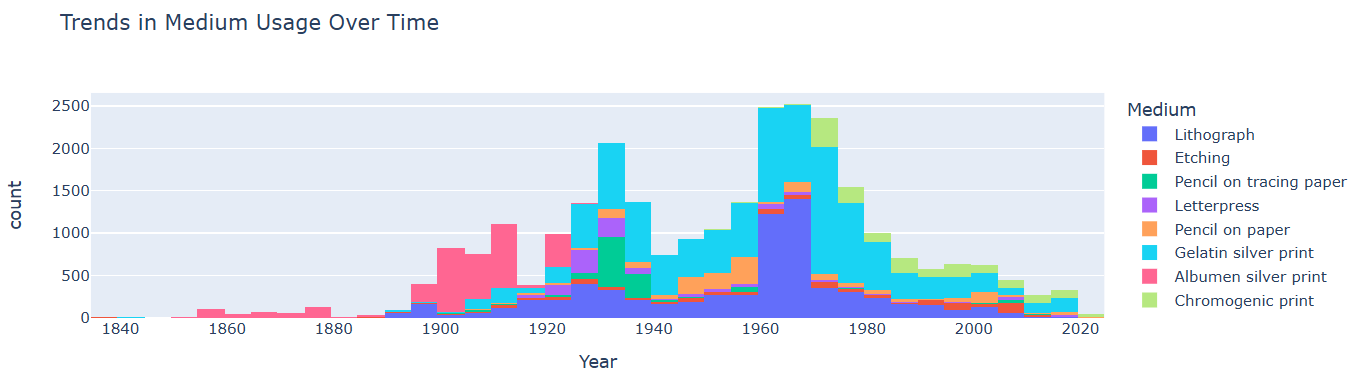
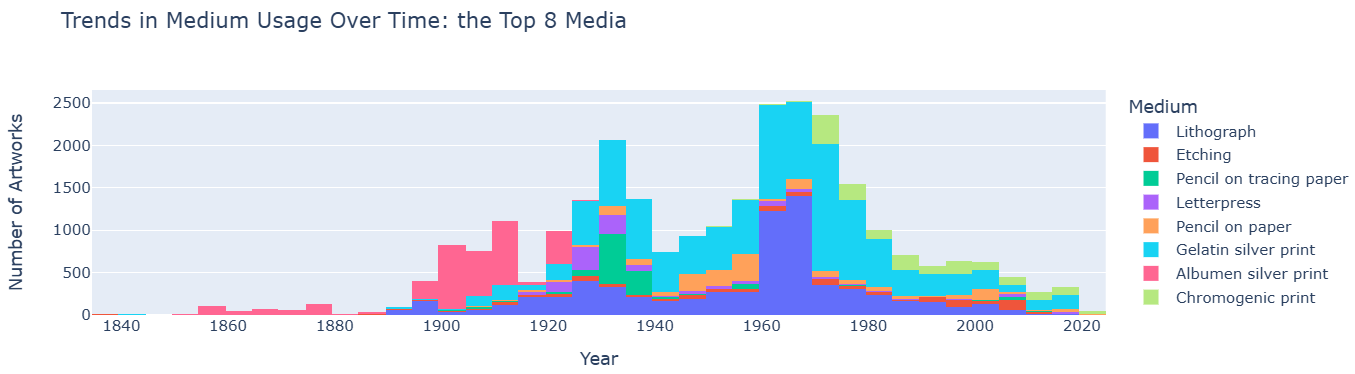
correct visualization in episode 1 and add dictionary to episode 2

diff --git a/episodes/01_analyze_tabular_data.md b/episodes/01_analyze_tabular_data.md
@@ -731,14 +731,19 @@ To keep the graph clear and easy to read, we'll focus only on the top eight most
 artistic media found in `moma_df`.
 
 ``` Python
-moma_df['Date'] = pd.to_numeric(moma_df['Date'], errors='coerce')
-top_media = moma_df['Medium'].value_counts().nlargest(8).index
-medium_df = moma_df[moma_df['Medium'].isin(top_media)]
+df = moma_df.copy()
+df['Date'] = pd.to_numeric(df['Date'], errors='coerce')
+
+top_media = df['Medium'].value_counts().nlargest(8).index
+medium_df = df[df['Medium'].isin(top_media)]
 
 fig = px.histogram(medium_df, x='Date', color='Medium',
                    nbins=50,
-                   title='Trends in Medium Usage Over Time',
-                   labels={'Date': 'Year'})
+                   title='Trends in Medium Usage Over Time: the Top 8 Media')
+
+fig.update_xaxes(title_text='Year')
+fig.update_yaxes(title_text='Number of Artworks')
+
 fig.show()
 ``` 
 
@@ -764,7 +769,28 @@ out the documentation of `plotly.express.histogram`
 Here's a line-by-line explanation of the above code: 
 
 ```
-moma_df['Date'] = pd.to_numeric(moma_df['Date'], errors='coerce')
+df = moma_df.copy()
+```
+
+- Creates a copy of the DataFrame `moma_df` and assigns it to `df`. This is often done to 
+preserve the original DataFrame in case you want to modify it without affecting the source.
+Here, because we are going to manipulate some values in `moma_df`, changing their data types and 
+removing rows that contain empty values, we create a copy of it to keep the original DataFrame 
+unchanged. 
+
+
+```
+df['Date'] = pd.to_numeric(df['Date'], errors='coerce')
+```
+
+- The dates in the "Date" column are objects. This line of code converts the values in the 
+'Date' column to numeric format. 
+- Any values that can't be converted (like strings or invalid dates) are set to NaN 
+(missing values) by `errors='coerce'`.
+
+
+```
+df['Date'] = pd.to_numeric(moma_df['Date'], errors='coerce')
 ```
 - If you remember, the dates in the 'Date' column were objects as `moma_df.info()` showed. 
 This line of code converts the values in the 'Date' column to numeric format.
@@ -773,9 +799,9 @@ This line of code converts the values in the 'Date' column to numeric format.
 
 
 ```
-top_media = moma_df['Medium'].value_counts().nlargest(8).index
+top_media = df['Medium'].value_counts().nlargest(8).index
 ```
-- `moma_df['Medium']` selects the "Medium" column from the DataFrame `moma_df`, which contains 
+- `df['Medium']` selects the "Medium" column from the DataFrame `df`, which contains 
 the artistic media for each artwork. 
 - `.value_counts()` counts the number of occurrences of each unique value in the "Medium" 
 column (i.e., how many artworks belong to each medium).
@@ -784,10 +810,10 @@ column (i.e., how many artworks belong to each medium).
 gives us the top 8 artistic media.
 
 ```
-medium_df = moma_df[moma_df['Medium'].isin(top_media)]
+medium_df = df[moma_df['Medium'].isin(top_media)]
 ```
 
-- `moma_df['Medium'].isin(top_media)` checks which rows in the "Medium" column of `moma_df` 
+- `df['Medium'].isin(top_media)` checks which rows in the "Medium" column of `moma_df` 
 contain one of the top 8 media from the `top_media` list.
 - The result is stored in a new DataFrame called `medium_df`, which contains only the artworks 
 with the top 8 most frequent media.
@@ -805,67 +831,18 @@ following arguments:
 This represents the year each artwork was created.
 - `color='Medium'`: This argument colors the bars by the "Medium" column, so you can 
 distinguish between the different artistic media.
+- When you set the X-axis to the `Date` column in `medium_df` and the bar colors to the 
+top 8 media, `Plotly Express` automatically counts the occurrences of each artistic medium 
+and plots them on the Y-axis. Therefore, it is not necessary to explicitly specify the column 
+from `medium_df` that should be plotted on the Y-axis. 
 - `nbins=50`: Specifies the number of bins for the histogram (i.e., how the years will be grouped).
 - `title='Trends in Medium Usage Over Time'`: The title of the plot.
-- `labels={'Date': 'Year'}`: Customizes the label of the X-axis 
-in a *Python dictionary* for better clarity.
 
-:::::::::::::::::::::::::::::::::::::::::: spoiler
-#### What is a Python dictionary?
-
-Python dictionaries are enclosed in curly brackets: **{ }**.
-A Python dictionary is a built-in data structure used to store pairs of related information. 
-One part of the pair is called the *key*, and the other part is the *value*. 
-Each key is linked to a specific value, and you can use the key to quickly access the 
-value associated with it. A Python dictionary is structured exactly like a linguistic
-dictionary: just as you look up a word in a linguistic dictionary to find its definition, 
-you can store values under keys in a Python dictionary to be able to use the keys to 
-retrieve the values later. 
-
-Here’s how you might define a Python dictionary:
-
-``` python
-my_vacation_plan= {
-    'budget': 100,
-    'destination': 'Johannesburg',
-    'accomodation': 'Sunset Hotel',
-    'activities': ['hiking', 'swimming', 'biking'],
-    'travel by plane': TRUE
-}
 ```
-
-In a Python dictionary, both keys and values can be a variety of data types, 
-but with some important rules:
-
-##### Keys:
-
-There are two main things to know about keys:
-
-1. They must be unique: You can’t have two identical keys in the same dictionary.
-2. They must be immutable: This means they have to be data types that cannot change.
-
-Valid key types include:
-
-- Strings (e.g., 'budget')
-- Numbers (e.g., 1, 3.14)
-- Tuples (e.g., (1, 2)), as long as the tuple itself doesn’t contain mutable objects
-
-You cannot use lists, dictionaries, or other mutable types as keys.
-
-##### Values:
-
-Values can be any type of Python object, including:
-
-- Strings
-- Numbers
-- Lists
-- Booleans
-- Functions
-- Even other dictionaries or complex objects
-
-Python places no restriction on the types of values you can store.
-::::::::::::::::::::::::::::::::::::::::::::::::::
-
+fig.update_xaxes(title_text='Year')
+fig.update_yaxes(title_text='Number of Artworks')
+```
+These lines set the title of the X-axis to "Year" and the title of the Y-axia to "Number of Artworks."
 
 ```
 fig.show()
@@ -895,33 +872,17 @@ top_nationalities = df['Nationality'].value_counts().nlargest(7).index
 grouped = grouped[grouped['Nationality'].isin(top_nationalities)]
 
 fig = px.scatter(grouped, x='Date', y='Nationality', size='Count', color='Nationality',
-                 title='Frequency of Artworks by Nationality Over Time',
-                 labels={'Date': 'Year'})
+                 title='Frequency of Artworks by Nationality Over Time')
+
+fig.update_xaxes(title_text='Year')
+fig.update_yaxes(title_text='Nationality')
+
 fig.show()
 ```
 
 ![](fig/output_12.png)
 
 :::: solution
-```
-df = moma_df.copy()
-```
-
-- Creates a copy of the DataFrame `moma_df` and assigns it to `df`. This is often done to 
-preserve the original DataFrame in case you want to modify it without affecting the source.
-Here, because we are going to manipulate some values in `moma_df`, changing their data types and 
-removing rows that contain empty values, we create a copy of it to keep the original DataFrame 
-unchanged. 
-
-
-```
-df['Date'] = pd.to_numeric(df['Date'], errors='coerce')
-```
-
-- The dates in the 'Date' column are objects. This line of code converts the values in the 
-'Date' column to numeric format. 
-- Any values that can't be converted (like strings or invalid dates) are set to NaN 
-(missing values) by `errors='coerce'`.
 
 ```
 df = df.dropna(subset=['Date', 'Nationality'])

diff --git a/episodes/02_analyze_text_data.md b/episodes/02_analyze_text_data.md
@@ -123,6 +123,62 @@ file, the dataset for this episode is stored in thirteen separate `.txt` files.
 To store multiple texts in a single Python variable, we can construct
 a *Python dictionary*.
 
+:::::::::::::::::::::::::::::::::::::::::: spoiler
+#### What is a Python dictionary?
+
+Python dictionaries are enclosed in curly brackets: **{ }**.
+A Python dictionary is a built-in data structure used to store pairs of related information. 
+One part of the pair is called the *key*, and the other part is the *value*. 
+Each key is linked to a specific value, and you can use the key to quickly access the 
+value associated with it. A Python dictionary is structured exactly like a linguistic
+dictionary: just as you look up a word in a linguistic dictionary to find its definition, 
+you can store values under keys in a Python dictionary to be able to use the keys to 
+retrieve the values later. 
+
+Here’s how you might define a Python dictionary:
+
+``` python
+my_vacation_plan= {
+    'budget': 100,
+    'destination': 'Johannesburg',
+    'accomodation': 'Sunset Hotel',
+    'activities': ['hiking', 'swimming', 'biking'],
+    'travel by plane': TRUE
+}
+```
+
+In a Python dictionary, both keys and values can be a variety of data types, 
+but with some important rules:
+
+##### Keys:
+
+There are two main things to know about keys:
+
+1. They must be unique: You can’t have two identical keys in the same dictionary.
+2. They must be immutable: This means they have to be data types that cannot change.
+
+Valid key types include:
+
+- Strings (e.g., 'budget')
+- Numbers (e.g., 1, 3.14)
+- Tuples (e.g., (1, 2)), as long as the tuple itself doesn’t contain mutable objects
+
+You cannot use lists, dictionaries, or other mutable types as keys.
+
+##### Values:
+
+Values can be any type of Python object, including:
+
+- Strings
+- Numbers
+- Lists
+- Booleans
+- Functions
+- Even other dictionaries or complex objects
+
+Python places no restriction on the types of values you can store.
+::::::::::::::::::::::::::::::::::::::::::::::::::
+
 We’re going to create two dictionaries: one for Marlowe’s plays, and one
 for Shakespeare’s. The keys in each dictionary will be the names of the
 `.txt` files — which correspond to the play titles — and the values will be the
